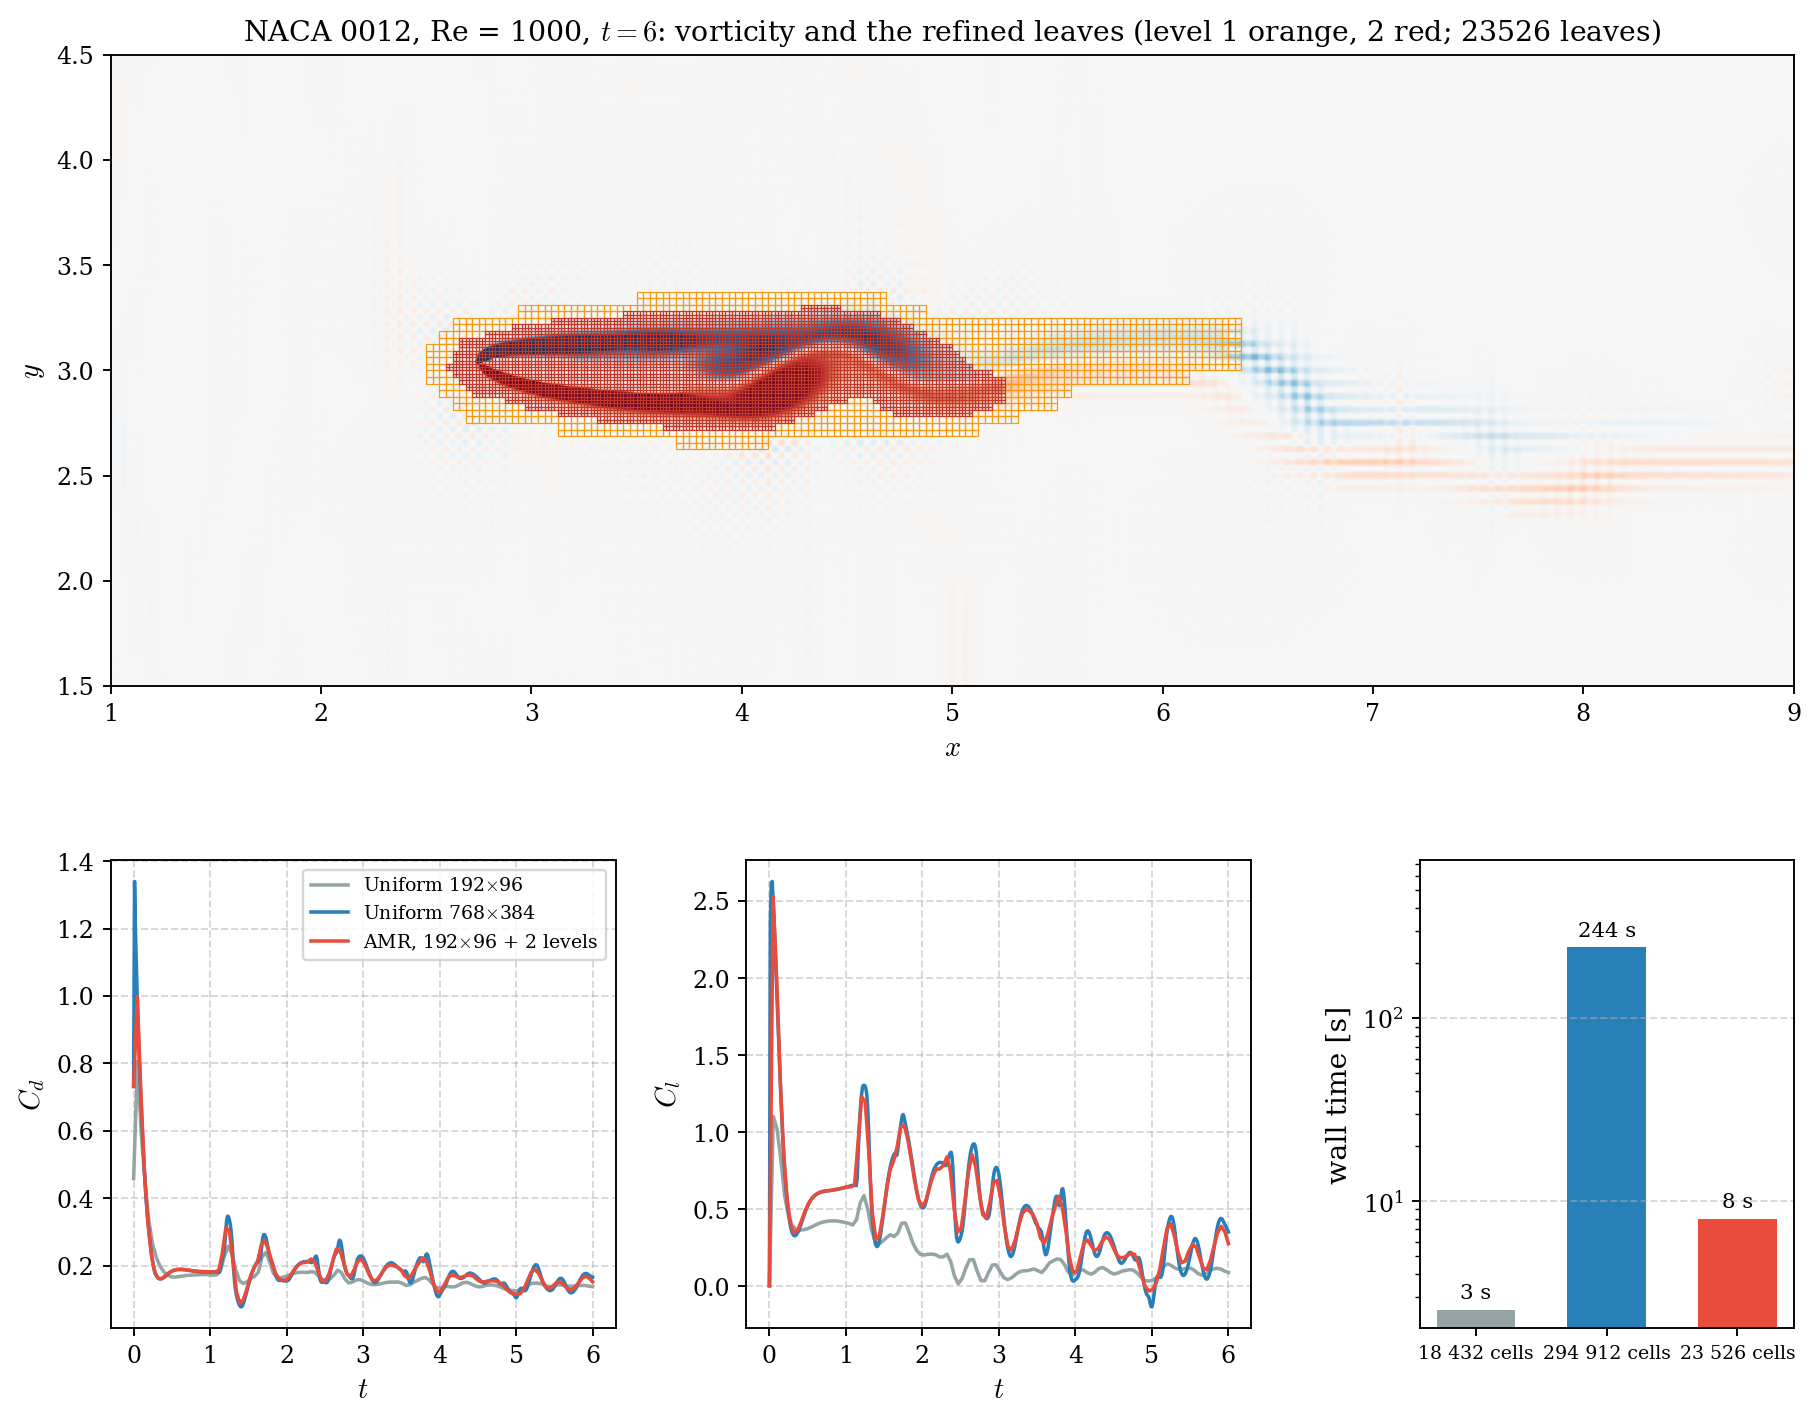
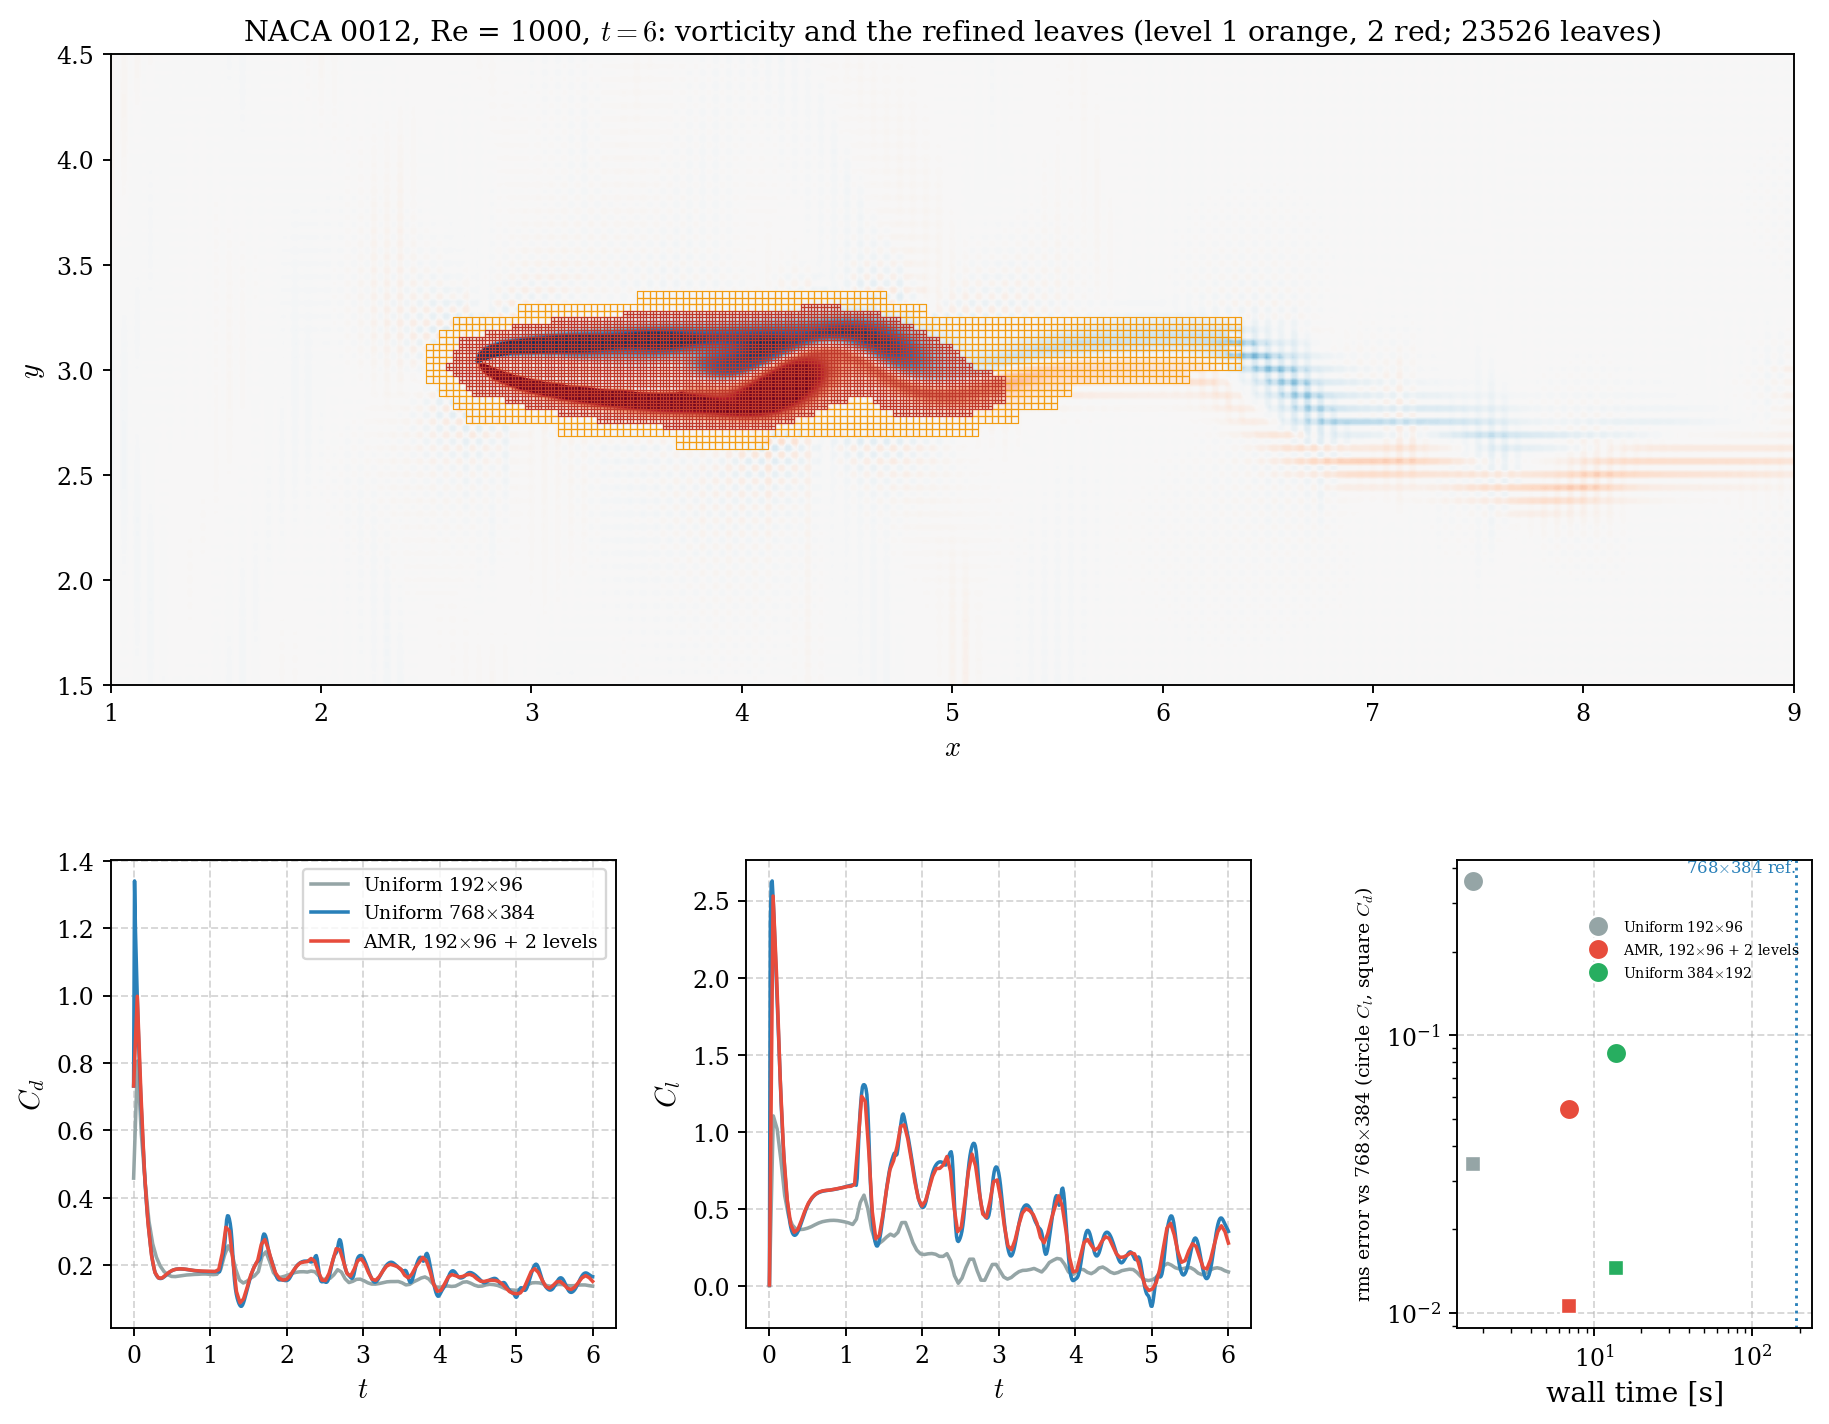
AMR cost shown as time to a given error: work-precision panel with a 384x192 uniform run, airfoil table and text rerun, scaling caveats, Sod states no time claim

diff --git a/cases/validation/amr/airfoil_amr.py b/cases/validation/amr/airfoil_amr.py
@@ -7,8 +7,10 @@
 Runs "IBM Airfoil" on the 192 x 96 base mesh and on 768 x 384 (the resolution AMR keeps at
 the body), and "IBM Airfoil AMR" (192 x 96, two levels, body at the finest level), all on
 OpenMP threads to t = 6. Prints the cells, the wall time and the rms difference of Cd(t) and
-Cl(t) from the 768 x 384 run (the loads the solver writes to the monitor). Figure:
-airfoil_amr.png (vorticity with the refinement levels, load histories, cost).
+Cl(t) from the 768 x 384 run (the loads the solver writes to the monitor), also for a uniform
+384 x 192 run. Figure: airfoil_amr.png (vorticity with the refinement levels, load histories, and
+the work-precision plot: wall time against load error, since runs are compared at equal accuracy,
+not at equal mesh).
 """
 import time
 
@@ -91,6 +93,7 @@ def main():
     plt = study.use_style()
     coarse, w_c = timed(args, "uniform_coarse", CASE, f"nx={BASE[0]}", f"ny={BASE[1]}")
     fine, w_f = timed(args, "uniform_fine", CASE, f"nx={BASE[0] * 2 ** LEVELS}", f"ny={BASE[1] * 2 ** LEVELS}")
+    mid, w_m = timed(args, "uniform_mid", CASE, "nx=384", "ny=192")
     amr, w_a = timed(args, "amr", CASE_AMR)
     cells_c, cells_f = BASE[0] * BASE[1], BASE[0] * BASE[1] * 4 ** LEVELS
     u, v, h, meta = fine_velocity(amr)
@@ -99,7 +102,7 @@ def main():
             ("Uniform 768$\\times$384", fine, "#2980b9", cells_f, w_f),
             ("AMR, 192$\\times$96 + 2 levels", amr, "#e74c3c", cells_a, w_a)]
 
-    for label, run, _, cells, wall in runs:
+    for label, run, _, cells, wall in runs + [("Uniform 384$\\times$192", mid, "", 384 * 192, w_m)]:
         e_d, e_l = load_errors(run, fine)
         print(f"{label.replace('$', '').replace(chr(92) + 'times', 'x'):32s} {cells:7d} cells {wall:7.1f} s   "
               f"rms vs 768x384, t >= 1: Cd {e_d:.4f}  Cl {e_l:.4f}")
@@ -132,17 +135,21 @@ def main():
     a1.legend(loc="upper right", fontsize=8)
     a2.set_xlabel("$t$")
     a2.set_ylabel("$C_l$")
-    a3 = fig.add_axes([0.76, 0.07, 0.2, 0.32])
-    xs = np.arange(3)
-    a3.bar(xs, [r[4] for r in runs], color=[r[2] for r in runs], width=0.6)
+    # work-precision: wall time against the load error (the right comparison is at equal accuracy)
+    a3 = fig.add_axes([0.78, 0.07, 0.19, 0.32])
+    for label, run, c, cells, wall in runs + [("Uniform 384$\\times$192", mid, "#27ae60", 384 * 192, w_m)]:
+        if run is fine:
+            continue
+        e_d, e_l = load_errors(run, fine)
+        a3.plot(wall, e_l, "o", color=c, ms=9, mec="white", label=label)
+        a3.plot(wall, e_d, "s", color=c, ms=7, mec="white")
+    a3.axvline(w_f, color="#2980b9", ls=":", lw=1.2)
+    a3.text(w_f, 1.0, r" 768$\times$384 ref.", color="#2980b9", fontsize=7, va="top", ha="right", transform=a3.get_xaxis_transform())
+    a3.legend(loc="upper right", fontsize=6, frameon=False, bbox_to_anchor=(1, 0.9))
+    a3.set_xscale("log")
     a3.set_yscale("log")
-    a3.set_ylabel("wall time [s]")
-    a3.set_xticks(xs)
-    a3.set_xticklabels([f"{r[3]:,} cells".replace(",", " ") for r in runs], fontsize=8)
-    a3.grid(False, axis="x")
-    for x, r in zip(xs, runs):
-        a3.text(x, r[4] * 1.15, f"{r[4]:.0f} s", ha="center", fontsize=9)
-    a3.set_ylim(top=max(r[4] for r in runs) * 3)
+    a3.set_xlabel("wall time [s]")
+    a3.set_ylabel(r"rms error vs 768$\times$384 (circle $C_l$, square $C_d$)", fontsize=8)
     study.save(fig, STUDY, "airfoil_amr.png", args.docs)
     if args.table:
         table(args, fine, w_f)

diff --git a/docs/source/cases/airfoil.md b/docs/source/cases/airfoil.md
@@ -59,19 +59,28 @@ python cases\validation\amr\airfoil_amr.py --docs                  # AMR against
 <img src="{{root}}img/airfoil_amr.png" style="width:100%">
 <figcaption>NACA 0012 at 10°, Re = 1000, up to $t = 6$ (<code>cases/validation/amr/airfoil_amr.py</code>).
 Top: vorticity with the refined leaves of the AMR run, which follow the airfoil and the wake. Bottom: drag and lift of the AMR run and of
-uniform 192×96 and 768×384 meshes, and the cost of the three runs on 16 OpenMP threads.</figcaption>
+uniform 192×96, 384×192 and 768×384 meshes. Bottom right: work and precision, the wall time of each run (16 OpenMP threads) against its
+rms load error with respect to the 768×384 run (circles $C_l$, squares $C_d$).</figcaption>
 </figure>
 
 | run | cells | wall time | rms error of $C_d$ | rms error of $C_l$ |
 |---|---:|---:|---:|---:|
-| uniform 192×96 | 18 432 | 2.5 s | 0.034 | 0.36 |
-| uniform 768×384 | 294 912 | 244 s | (reference) | (reference) |
-| AMR, 192×96 + 2 levels | 23 526 | 8 s | 0.011 | 0.054 |
+| uniform 192×96 | 18 432 | 1.7 s | 0.034 | 0.36 |
+| uniform 384×192 | 73 728 | 13.8 s | 0.015 | 0.087 |
+| uniform 768×384 | 294 912 | 190 s | (reference) | (reference) |
+| AMR, 192×96 + 2 levels | 23 526 | 7.0 s | 0.011 | 0.054 |
 
 The errors are rms differences of $C_d(t)$ and $C_l(t)$ from the 768×384 run over
 $1 \le t \le 6$ (this is the impulsive start of the flow, not a statistically steady state).
-AMR reproduces the loads of the fine mesh with 8 % of its cells and 3 % of its time. The
-base mesh alone misses most of the lift.
+The comparison that matters is the time to a given error. AMR reaches the loads of the fine mesh (8 % of its cells)
+in 7 s against 190 s, about 27× faster, and it is both faster and more accurate than the uniform 384×192 run
+(7 s against 14 s, lift error 0.054 against 0.087). The cheap uniform 192×96 run takes 1.7 s, but its lift error
+is about 7× larger: "AMR is slower than the coarse mesh" compares two runs of different accuracy. The wall times
+are one run each on 16 OpenMP threads.
+
+Caveats. The window is an impulsive start, not a statistically steady flow, so these figures are not a converged
+work-precision study. With more cores the advantage shrinks slightly because AMR parallelises worse than the uniform
+solver (see [AMR]({{root}}modules/AMR.html)), but the cell reduction is much larger than that efficiency gap.
 
 ## Using your own airfoil
 

diff --git a/docs/source/modules/AMR.md b/docs/source/modules/AMR.md
@@ -159,6 +159,13 @@ the peak: minimum / maximum over the ranks) and the size of the tables of a rank
 (`cases/validation/amr/amr_memory.py` measures it on 1 to 16 ranks; `docs/design/amr-distributed.md` is the plan to distribute
 the remesh as well).
 
+The table below compares AMR with itself on 1 to 16 cores; it says nothing about AMR against a uniform mesh (that comparison is
+at equal accuracy, time to a given error, see the [airfoil]({{root}}cases/airfoil.html) page). It does show that AMR parallelises
+worse than the uniform solver (about 2.9× on 16 threads, against 4 to 5× for the uniform cases): the remesh scales poorly, the
+small levels fall below the OpenMP threshold of 4096 items per loop, and 50 steps are short (about 1 s of the 5.9 s serial run is
+the remesh and set-up, a share that a long run amortises, so the table probably understates the efficiency of AMR). More cores
+therefore shrink the AMR advantage slightly, by that efficiency gap, but the cell reduction is much larger and wins at 16 threads too.
+
 | run (720×360, 2 levels, 50 steps, 268 362 leaves) | wall time | of which remesh |
 |---|---:|---:|
 | serial, 1 thread | 5.9 s | 1.0 s |

diff --git a/docs/source/cases/sod.md b/docs/source/cases/sod.md
@@ -54,7 +54,7 @@ finest levels.
 <img src="{{root}}img/sod_amr.png" style="width:100%">
 <figcaption>AMR vs uniform 80×16 and 160×32 meshes at t = 0.2. AMR keeps level 4 around
 the contact and the shock and reaches the error of the 160×32 mesh (L1 1.5e-2 vs 1.4e-2) with
-45% of its cells.</figcaption>
+45% of its cells (a cell count; the run time of this tiny case is not measured, so no time saving is claimed).</figcaption>
 </figure>
 
 The refinement follows the waves. `cases/validation/amr/sod_amr_animation.py` runs a 40×4 base mesh with
